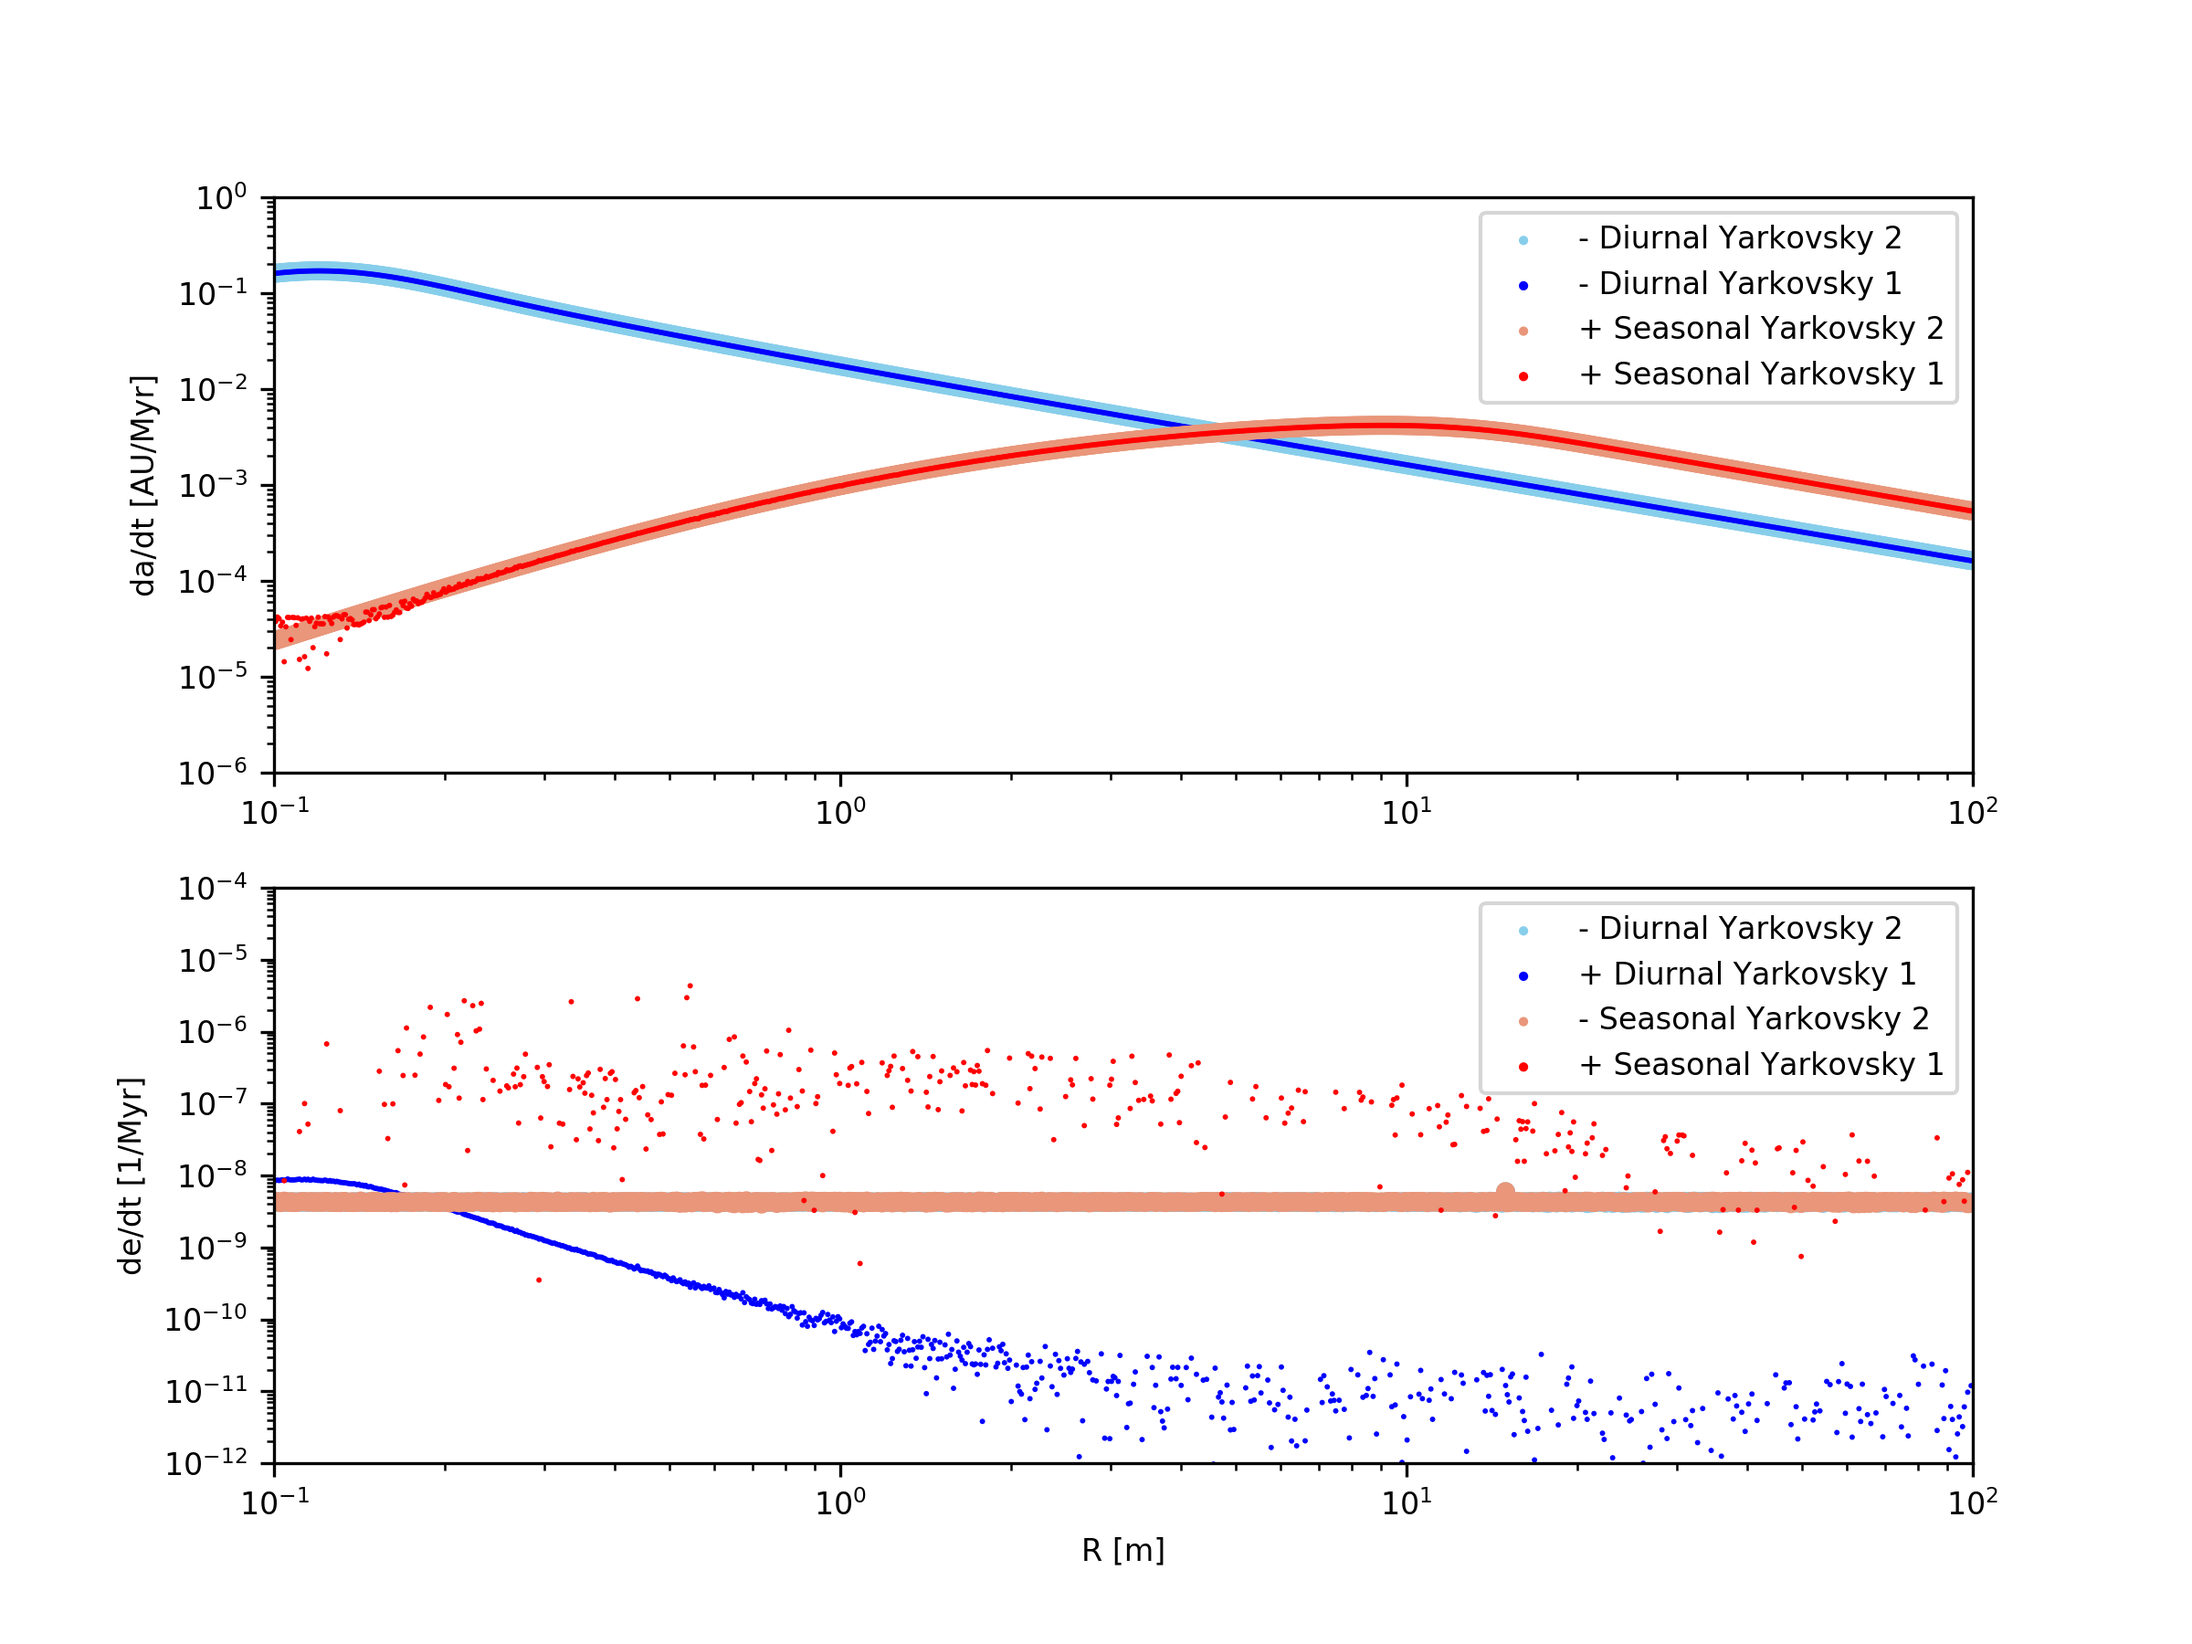
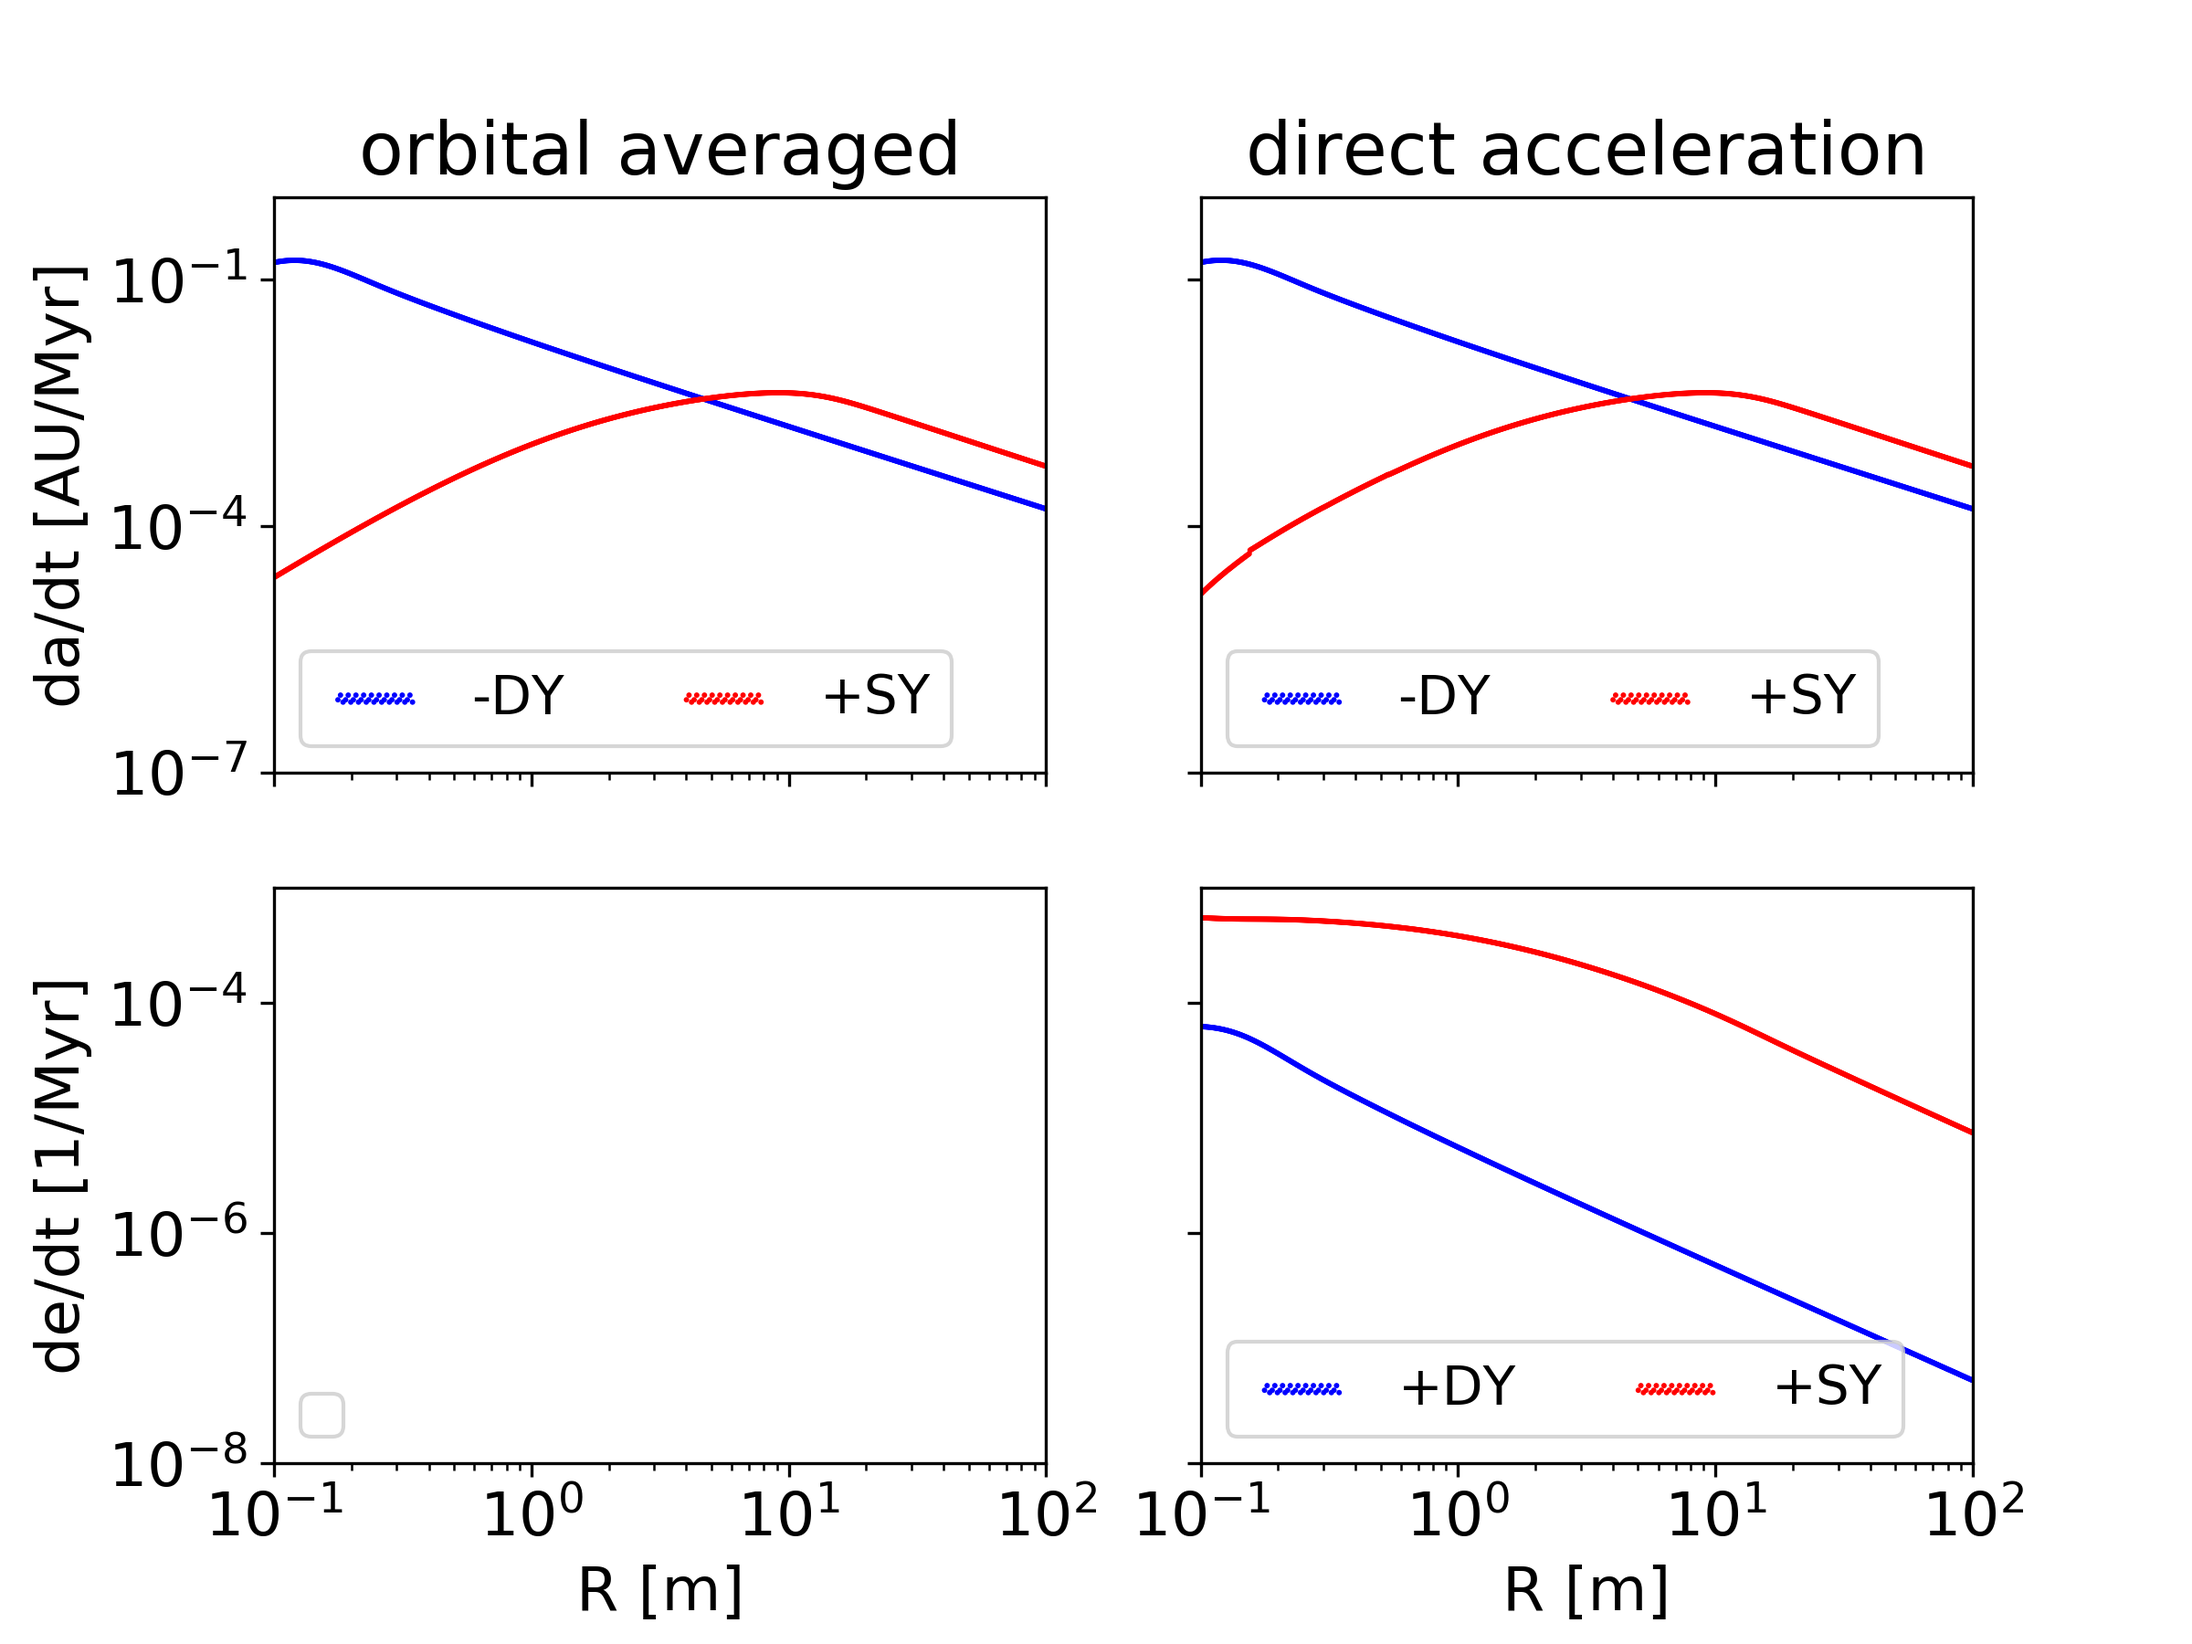
correct angular momentum units in Eenrgy file

diff --git a/source/force.h b/source/force.h
@@ -1295,7 +1295,7 @@ __global__ void rotation_kernel(curandState *random_d, double4 *x4_d, double4 *v
 			double RR = v4.w * def_AU;	//convert radius in m
 			double M = x4.w;
 			if(x4.w == 0.0){
-				M = Asteroid_rho_c[0] * 4.0 / 3.0 * M_PI * v4.w * v4.w * v4.w * def_AU * def_AU * def_AU; 	//mass in Kg;
+				M = Asteroid_rho_c[0] * 4.0 / 3.0 * M_PI * v4.w * v4.w * v4.w * def_AU * def_AU * def_AU; 	//mass in kg;
 				M /= def_Solarmass;								//mass im Solar masses
 			}
 
@@ -1396,9 +1396,9 @@ __global__ void fragment_kernel(curandState *random_d, double4 *x4_d, double4 *v
 
 			//mass of the parent body
 			double RR = v4.w * def_AU;	//convert radius in m
-			double M = x4.w * def_Solarmass; //mass in Kg
+			double M = x4.w * def_Solarmass; //mass in kg
 			if(x4.w == 0.0){
-				M = Asteroid_rho_c[0] * 4.0 / 3.0 * M_PI * v4.w * v4.w * v4.w * def_AU * def_AU * def_AU; 	//mass in Kg;
+				M = Asteroid_rho_c[0] * 4.0 / 3.0 * M_PI * v4.w * v4.w * v4.w * def_AU * def_AU * def_AU; 	//mass in kg;
 			}
 
 			double p = 1.0 / (2.0e7 * sqrt(RR));	//probability per year per body
@@ -1421,7 +1421,7 @@ printf("fragment %d %d %d %g %g %g %g %g %d\n", id, index_d[id], accept, time/36
 					double n = -1.5;
 					double u = curand_uniform(&random);
 					double r = pow((pow(x1,n+1.0) - pow(x0,n+1.0)) * u + pow(x0, n+1.0), 1.0/(n+1.0));
-					double m = Asteroid_rho_c[0] * 4.0 / 3.0 * M_PI * r * r * r; //mass in Kg;
+					double m = Asteroid_rho_c[0] * 4.0 / 3.0 * M_PI * r * r * r; //mass in kg;
 
 					M -= m;
 					if(M <= 0.0){
@@ -1654,7 +1654,7 @@ __global__ void CallYarkovsky2(double4 *x4_d, double4 *v4_d, double4 *spin_d, in
 			double dt = dt_d[st] * Kt;
 			double m = x4i.w;
 			if(m == 0.0){
-				m = Asteroid_rho_c[0] * 4.0 / 3.0 * M_PI * RR * RR * RR; 	//mass in Kg;
+				m = Asteroid_rho_c[0] * 4.0 / 3.0 * M_PI * RR * RR * RR; 	//mass in kg;
 				m /= def_Solarmass;						//mass im Solar masses
 			}
 			double mu = def_ksq * (Msun + m);
@@ -2011,7 +2011,7 @@ __global__ void PoyntingRobertsonDrag(double4 *x4_d, double4 *v4_d, int *index_d
 			double RR = v4i.w * def_AU;					//covert radius in m	
 
 			if(m == 0.0){
-				m = Asteroid_rho_c[0] * 4.0 / 3.0 * M_PI * RR * RR * RR; 	//mass in Kg;
+				m = Asteroid_rho_c[0] * 4.0 / 3.0 * M_PI * RR * RR * RR; 	//mass in kg;
 				m /= def_Solarmass;					//mass im Solar masses
 			}
 			double mu = def_ksq * (Msun + m);
@@ -2204,7 +2204,7 @@ __global__ void PoyntingRobertsonDrag2(double4 *x4_d, double4 *v4_d, int *index_
 			double m = x4i.w;
 		
 			if(m == 0.0){
-				m = Asteroid_rho_c[0] * 4.0 / 3.0 * M_PI * RR * RR * RR; 	//mass in Kg;
+				m = Asteroid_rho_c[0] * 4.0 / 3.0 * M_PI * RR * RR * RR; 	//mass in kg;
 				m /= def_Solarmass;					//mass im Solar masses
 			}
 		

diff --git a/source/forceYarkovskyOld.h b/source/forceYarkovskyOld.h
@@ -24,7 +24,7 @@ __device__ void Yarkovski(double &a, const double e, double m, const double mu, 
 	double RR = R * def_AU;		//covert radius in m 
 
 //comppute mass through density
-if(m == 0.0) m = Asteroid_rho_c[0] * 4.0 / 3.0 * M_PI * RR * RR * RR; 	//mass in Kg;
+if(m == 0.0) m = Asteroid_rho_c[0] * 4.0 / 3.0 * M_PI * RR * RR * RR; 	//mass in kg;
 	m /= 1.98855e30;						//mass im Solar masses
 
 	double d = a * (1.0 + e*e * 0.5);//time averaged heliocentric distance in AU
@@ -169,7 +169,7 @@ __device__ void Yarkovski2(double &a, const double e, double m, const double Msu
 	double mu = def_ksq * (Msun + m);
 //comppute mass through density
 	if(m == 0.0){
-		m = Asteroid_rho_c[0] * 4.0 / 3.0 * M_PI * RR * RR * RR; 	//mass in Kg;
+		m = Asteroid_rho_c[0] * 4.0 / 3.0 * M_PI * RR * RR * RR; 	//mass in kg;
 		m /= 1.98855e30;						//mass im Solar masses
 		mu = def_ksq * (Msun + m);
 	}
@@ -324,7 +324,7 @@ __global__ void CallYarkovsky(double4 *x4_d, double4 *v4_d, double4 *spin_d, int
 			double dt = dt_d[st] * Kt;
 			double mu = def_ksq * (Msun + x4i.w);
 			if(x4i.w == 0.0){
-				double m = Asteroid_rho_c[0] * 4.0 / 3.0 * M_PI * RR * RR * RR;; 	//mass in Kg;
+				double m = Asteroid_rho_c[0] * 4.0 / 3.0 * M_PI * RR * RR * RR;; 	//mass in kg;
 				m /= 1.98855e30;						//mass im Solar masses
 				mu = def_ksq * (Msun + m);
 			}

diff --git a/source/define.h b/source/define.h
@@ -7,7 +7,7 @@
 #include <math.h>
 
 
-#define def_Version 3.136
+#define def_Version 3.137
 
 #define def_OldShuffle 0 		//set this to 1 when an old cuda version is used which doesn't have shfl_sync operations
 

diff --git a/docs/Files.rst b/docs/Files.rst
@@ -171,11 +171,11 @@ with
 - time in years
 - N: Number of particles
 - V: Total potential energy , in :math:`M_\odot AU^2 / day^2`
-- T: Total Kinetic energy, :math:`M_\odot AU^2 / day^2`
-- LI: Angular momentum lost at ejections
+- T: Total Kinetic energy, in :math:`M_\odot AU^2 / day^2`
+- LI: Angular momentum lost at ejections, in :math:`M_\odot AU^2 / day`
 - U: Inner energy created from collisions, ejections or gas disc, :math:`M_\odot AU^2 / day^2`
-- ETotal: Total Energy, :math:`M_\odot AU^2 / day^2`
-- LTotal: Total Angular Momentum
+- ETotal: Total Energy, in :math:`M_\odot AU^2 / day^2`
+- LTotal: Total Angular Momentum, in :math:`M_\odot AU^2 / day`
 - LRelativ: (LTotal_t - LTotal_0)/LTotal_0, dimensionless
 - ERelativ: (ETotal_t - ETotal_0)/ETotal_0, dimensionless
 

diff --git a/docs/Yarkovsky.rst b/docs/Yarkovsky.rst
@@ -88,7 +88,6 @@ In :numref:`figYarkovsky` is shown a test of the Yarkovsky effect following :cit
 .. figure:: plots/Yarkovsky.png  
    :name: figYarkovsky
 
-   Drift rate of the seasonal and diurnal Yarkovsky effect. Computed after 10000 years and averaged over 1 orbit. 
-   The scattering is caused by the random values for the mean anomalies.
+   Drift rate of the seasonal and diurnal Yarkovsky effect. Computed after 10000 years and averaged over 1 orbit.
 
 

diff --git a/README.md b/README.md
@@ -18,6 +18,7 @@ pairs.
 
  ** News: **
 
+ * Version 3.137: Corrected angular momentum units in the Energyfile to Msun AU^2/day.
  * Version 3.135: Moved KickFloat from defin.h to param.dat.
  * Version 3.134: Included spin evolution for tidal and rotational deformation forces.
  * Version 3.129: Included moment of inertia.

diff --git a/docs/InitialConditions.rst b/docs/InitialConditions.rst
@@ -222,9 +222,11 @@ We assume :math:`I_c = 0.07`.
 
 Energy
 ^^^^^^
+The energy in the Energy file is reported in in :math:`M_\odot AU^2 / day^2`.
 
 Angular momentum
 ^^^^^^^^^^^^^^^^
+The angular momentum in the Energy file is reported in in :math:`M_\odot AU^2 / day`.
 
 
 Time lag
